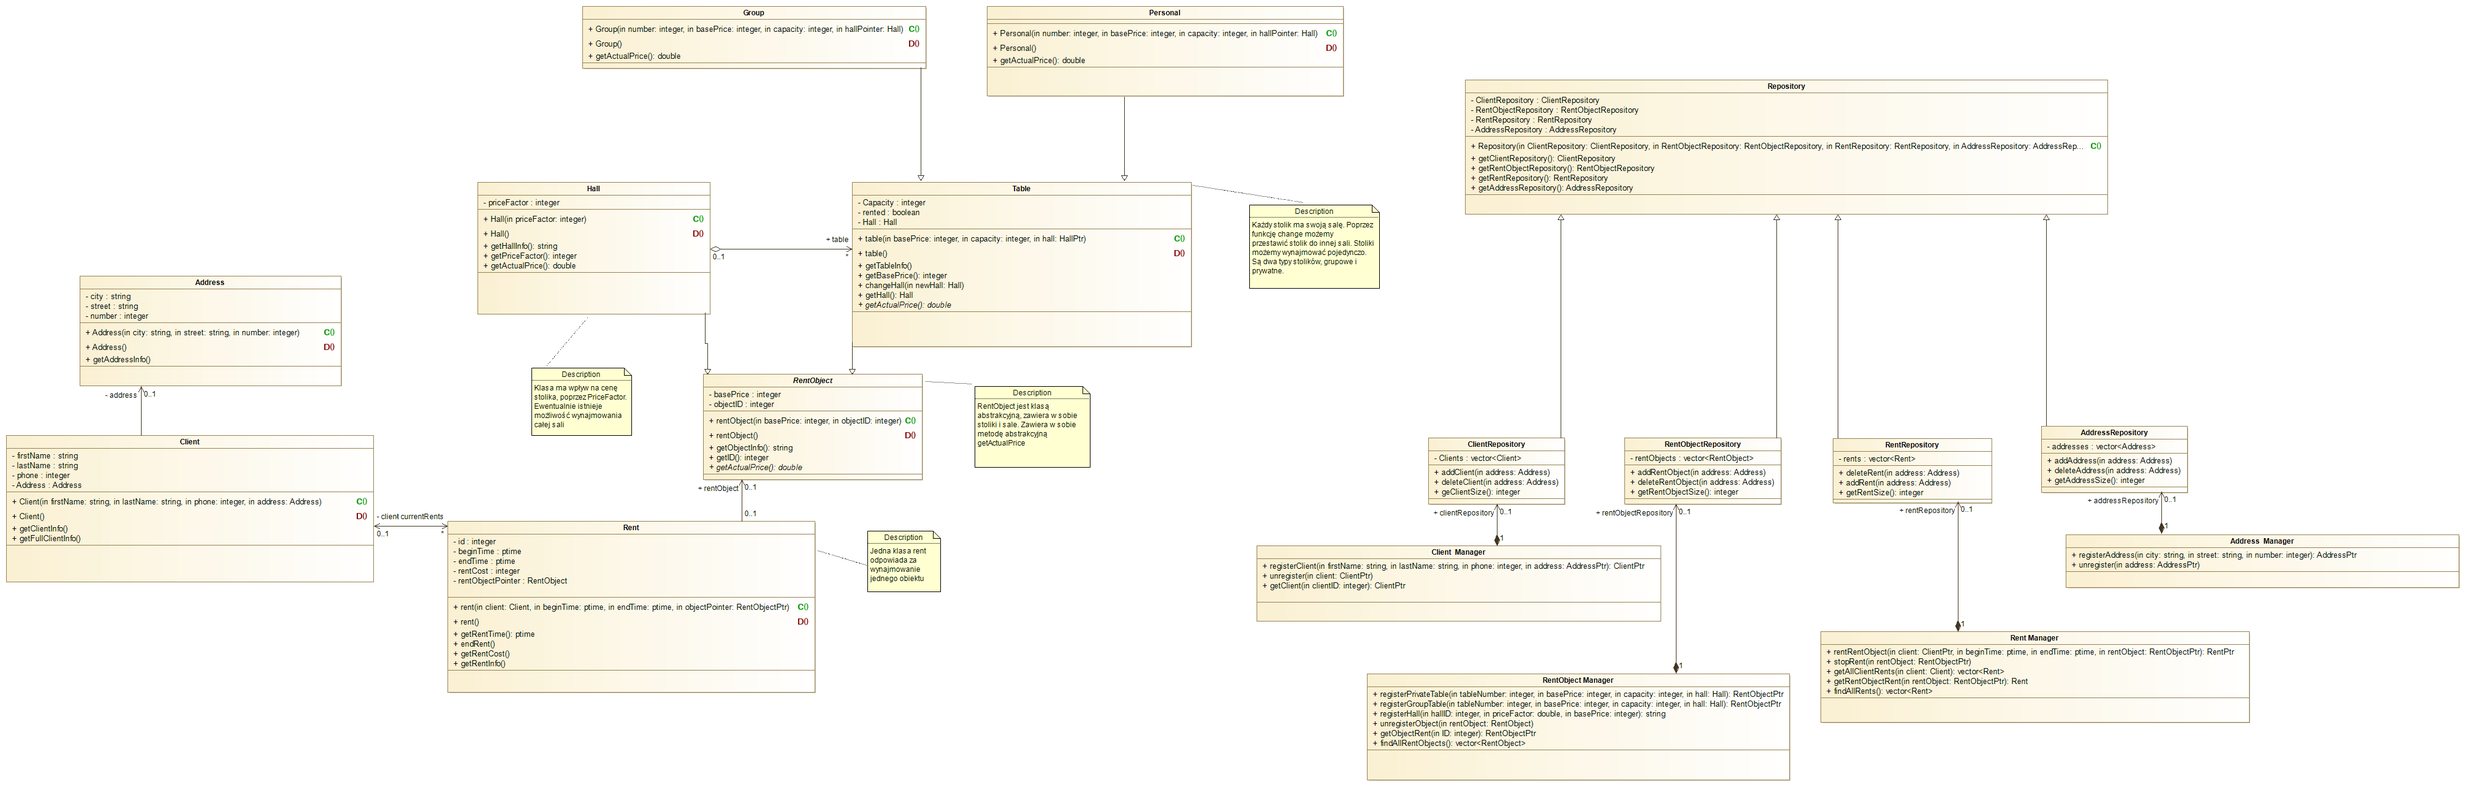
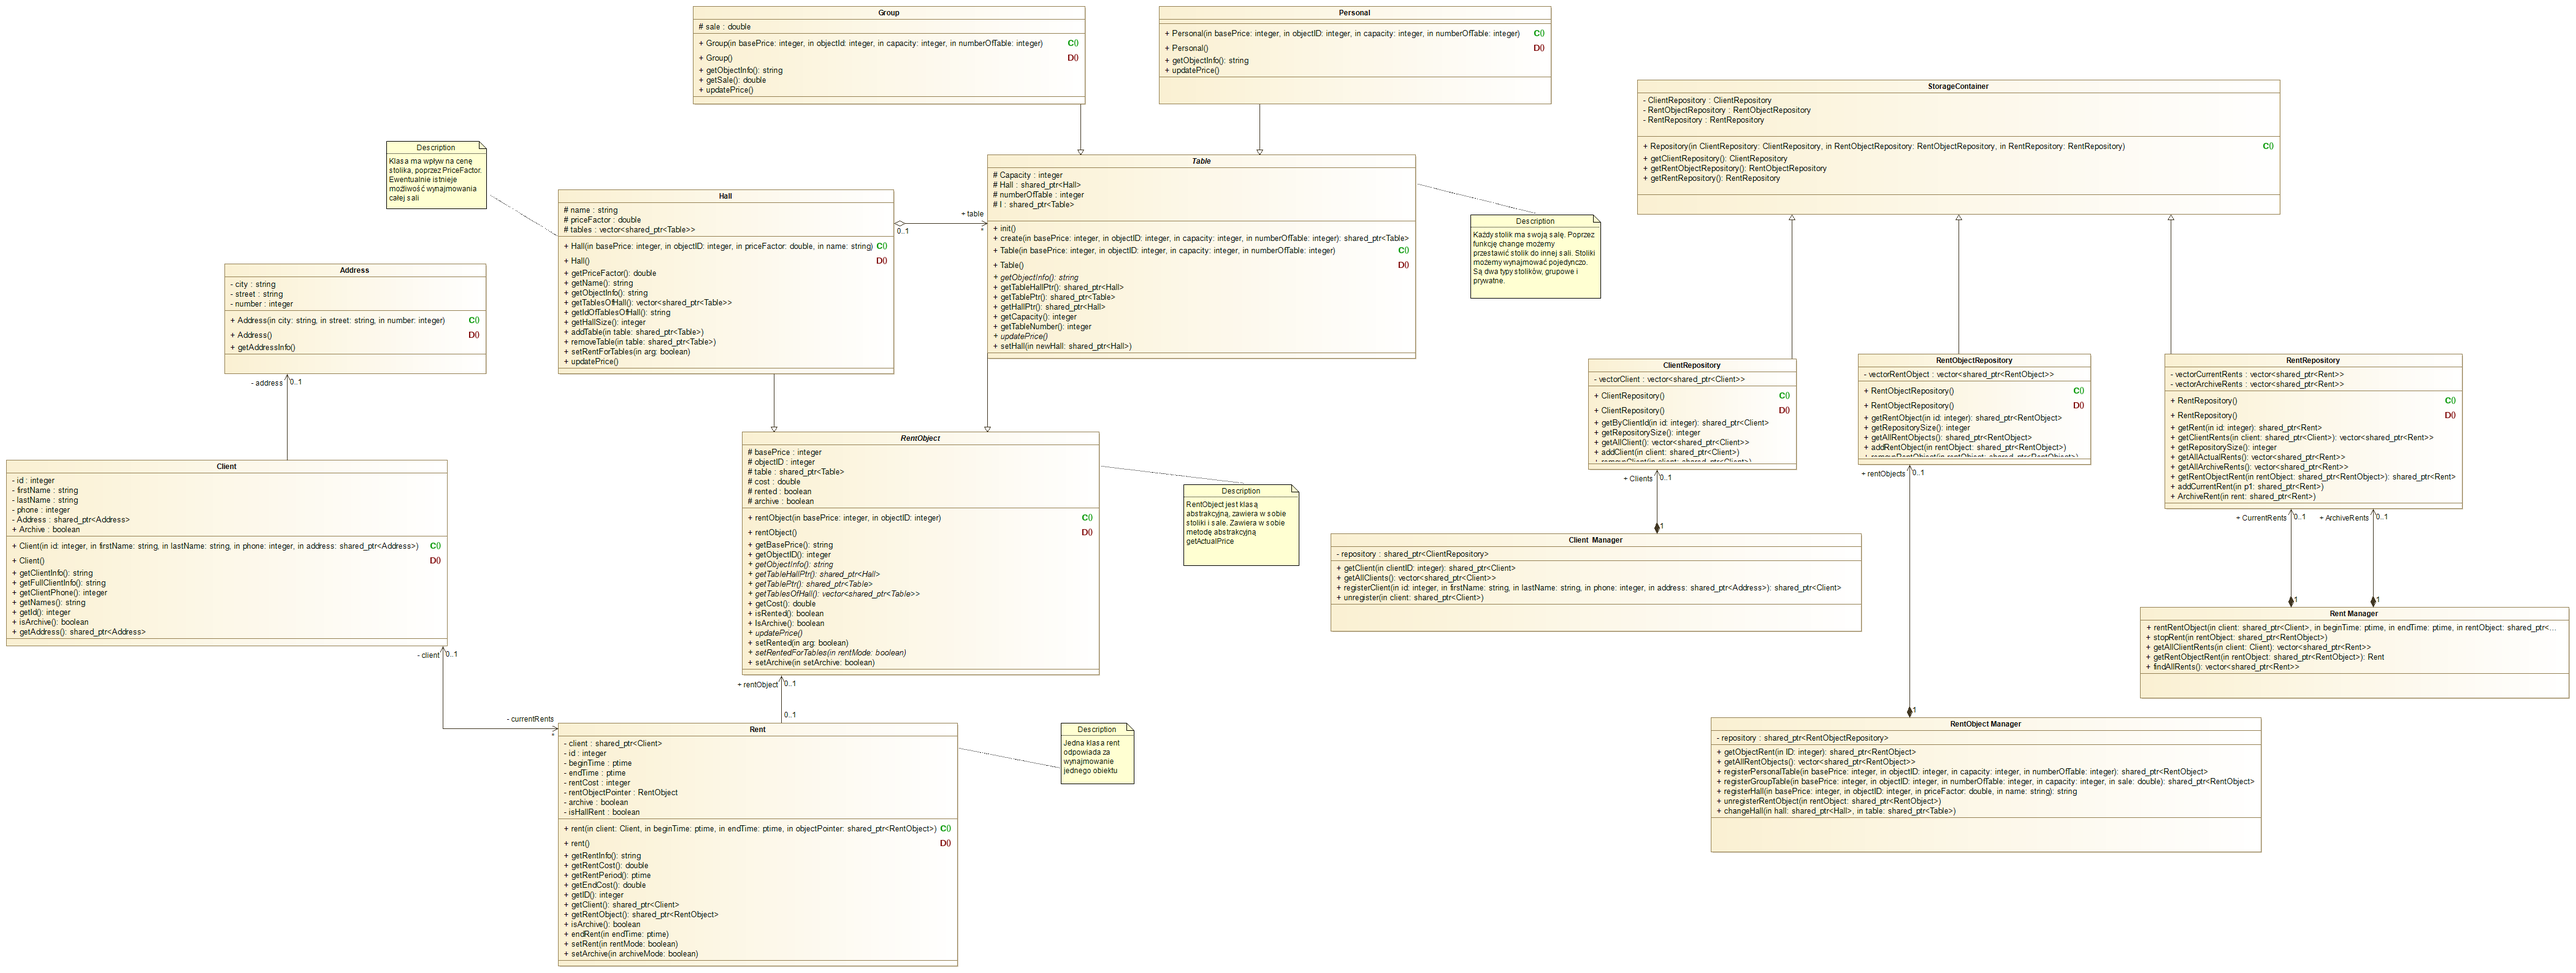
Usunięte nipotrzebne metody i atrybuty, zaktualizowany diagram

diff --git a/Restaurant/library/test/RentObjectTest.cpp b/Restaurant/library/test/RentObjectTest.cpp
@@ -8,6 +8,7 @@
 #include "exceptions/RentObjectExceptions.h"
 #include "RentObject.h"
 #include "managers/RentObjectManager.h"
+#include "exceptions/ManagersExceptions.h"
 
 struct RentObjectFixture {
     int basePrice1 = 10; int basePrice2 = 20; int basePrice3 = 30; int basePrice4 = 30;
@@ -89,8 +90,8 @@ BOOST_FIXTURE_TEST_SUITE(RentObjectTest, RentObjectFixture)
         BOOST_TEST (h2->getHallSize() == 1);
         BOOST_TEST (p->getHallPtr() == h2);
         BOOST_TEST (p->getCost() == basePrice1 * h2->getPriceFactor() * capacity1);
-        BOOST_CHECK_THROW(p->changeHall(nullptr, p), RentObjectExceptions);
-        BOOST_CHECK_THROW(p->changeHall(h2, p), RentObjectExceptions);
+        BOOST_CHECK_THROW(RentObjectManager::changeHall(nullptr, p), ManagersExceptions);
+        BOOST_CHECK_THROW(RentObjectManager::changeHall(h2, p), ManagersExceptions);
 
     }
 

diff --git a/Restaurant/library/include/RentObject.h b/Restaurant/library/include/RentObject.h
@@ -32,7 +32,6 @@ public:
     const int &getBasePrice () const;
     const int &getObjectID () const;
     virtual const string getObjectInfo () const;
-    virtual const double getActualPriceForHour () const;
     virtual const shared_ptr<Hall> getTableHallPtr () const;
     virtual shared_ptr<const Table> getTablePtr ();
     virtual const vector<shared_ptr<Table>>* getTablesOfHall () const;
@@ -42,7 +41,7 @@ public:
 
     //Settery
     virtual void updatePrice ();
-    virtual void setRented(const bool &arg);
+    void setRented(const bool &arg);
     virtual void setRentForTables (const bool&);
     void setArchive (const bool& arg);
 };

diff --git a/Restaurant/library/src/repositories/RentObjectRepository.cpp b/Restaurant/library/src/repositories/RentObjectRepository.cpp
@@ -24,17 +24,6 @@ const int RentObjectRepository::getRepositorySize() const {
     return vectorRentObject.size();
 }
 
-const vector<shared_ptr<RentObject>> *RentObjectRepository::getAllTableInHall(const shared_ptr<Hall> hall, vector<shared_ptr<RentObject>> *tables) const {
-    for (auto t = vectorRentObject.begin(); t < vectorRentObject.end(); t++){
-        if ((*t)->getTableHallPtr() == hall)
-        {
-            tables->push_back((*t));
-        }
-    }
-
-    return tables;
-}
-
 const vector<shared_ptr<RentObject>> *RentObjectRepository::getAllRentObjects() const{
     return &vectorRentObject;
 }

diff --git a/Restaurant/library/src/Table.cpp b/Restaurant/library/src/Table.cpp
@@ -60,20 +60,6 @@ const int Table::getTableNumber() const {
 }
 
 //Settery
-void Table::changeHall(HallPtr newHall, shared_ptr<Table> table1) {
-    if (newHall == nullptr)
-        throw RentObjectExceptions ("INVALID HALL IN FUCTION CHANGEHALL!");
-    if (newHall == hall)
-        throw RentObjectExceptions ("THIS HALL IS ALREADY SET!");
-    if (hall != nullptr)
-    hall->removeTable(table1);
-
-    hall = newHall;
-    newHall->addTable(table1);
-
-    table1->updatePrice();
-}
-
 void Table::updatePrice() {
     throw RentObjectExceptions("IMPOSSIBLE UPDATE PRICE!");
 }

diff --git a/Restaurant/library/src/Personal.cpp b/Restaurant/library/src/Personal.cpp
@@ -9,7 +9,6 @@
 Personal::Personal(const int &basePrice, const int &objectID_, const int &capacity_, const int &numberOfTable_) :
 Table(basePrice, objectID_, capacity_, numberOfTable_){
     shared_ptr<Table> p = Table::create (basePrice, objectID_, capacity_, numberOfTable_);
-    parent = p;
     I = p;
 }
 
@@ -35,10 +34,5 @@ const string Personal::getObjectInfo() const {
 //Settery
 void Personal::updatePrice() {
     cost = basePrice * hall->getPriceFactor() * capacity;
-}
-
-
-const shared_ptr<const Table> Personal::getParent() const {
-    return parent;
 }
 

diff --git a/Restaurant/library/include/repositories/RentObjectRepository.h b/Restaurant/library/include/repositories/RentObjectRepository.h
@@ -23,7 +23,6 @@ public:
     //Gettery
     const shared_ptr<RentObject> getRentObject (const int ID) const;
     const int getRepositorySize ()const;
-    const vector<shared_ptr<RentObject>> *getAllTableInHall (const shared_ptr<Hall>, vector<shared_ptr<RentObject>>*) const;
     const vector<shared_ptr<RentObject>> *getAllRentObjects () const;
 
     //Settery

diff --git a/Restaurant/library/src/Group.cpp b/Restaurant/library/src/Group.cpp
@@ -8,7 +8,6 @@
 Group::Group(const int &basePrice, const int &objectID_, const int &capacity_,const int &numberOfTable_, const double &sale_) :
 sale(sale_) ,Table(basePrice, objectID_, capacity_, numberOfTable_){
     shared_ptr<Table> p = Table::create (basePrice, objectID_, capacity_, numberOfTable_);
-    parent = p;
     I = p;
 }
 

diff --git a/Restaurant/library/src/RentObject.cpp b/Restaurant/library/src/RentObject.cpp
@@ -32,10 +32,6 @@ const string RentObject::getObjectInfo() const {
     return "Object ID: " + to_string(objectID) + ". Base price: " + to_string(basePrice);
 }
 
-const double RentObject::getActualPriceForHour() const {
-    return 0;
-}
-
 const shared_ptr<Hall> RentObject::getTableHallPtr() const {
     return nullptr;
 }

diff --git a/Restaurant/library/include/repositories/ClientRepository.h b/Restaurant/library/include/repositories/ClientRepository.h
@@ -25,7 +25,7 @@ public:
     ~ClientRepository();
 
     //Gettery
-    const shared_ptr<Client> getClientByID (const int phone) const;
+    const shared_ptr<Client> getClientByID (const int id) const;
     const int getRepositorySize () const;
     const vector<shared_ptr<Client>>* getAllClients () const;
 

diff --git a/Restaurant/library/include/Personal.h b/Restaurant/library/include/Personal.h
@@ -10,7 +10,6 @@
 
 class Personal : public Table{
 protected:
-    shared_ptr<Table> parent;
 
 public:
     //Konstruktor
@@ -21,7 +20,6 @@ public:
 
     //Gettery
     const string getObjectInfo() const;
-    const shared_ptr<const Table> getParent () const;
 
     //Settery
     void updatePrice ();

diff --git a/Restaurant/library/include/Table.h b/Restaurant/library/include/Table.h
@@ -37,7 +37,6 @@ public:
     const int getTableNumber () const;
 
     //Settery
-    void changeHall (HallPtr newHall, shared_ptr<Table> table1);
     virtual void updatePrice ();
     void setHall (shared_ptr<Hall> newHall);
 

diff --git a/Restaurant/library/include/Group.h b/Restaurant/library/include/Group.h
@@ -10,7 +10,6 @@
 class Group : public Table{
 protected:
     double sale;
-    shared_ptr<Table> parent;
 
 public:
     //Konstruktor
